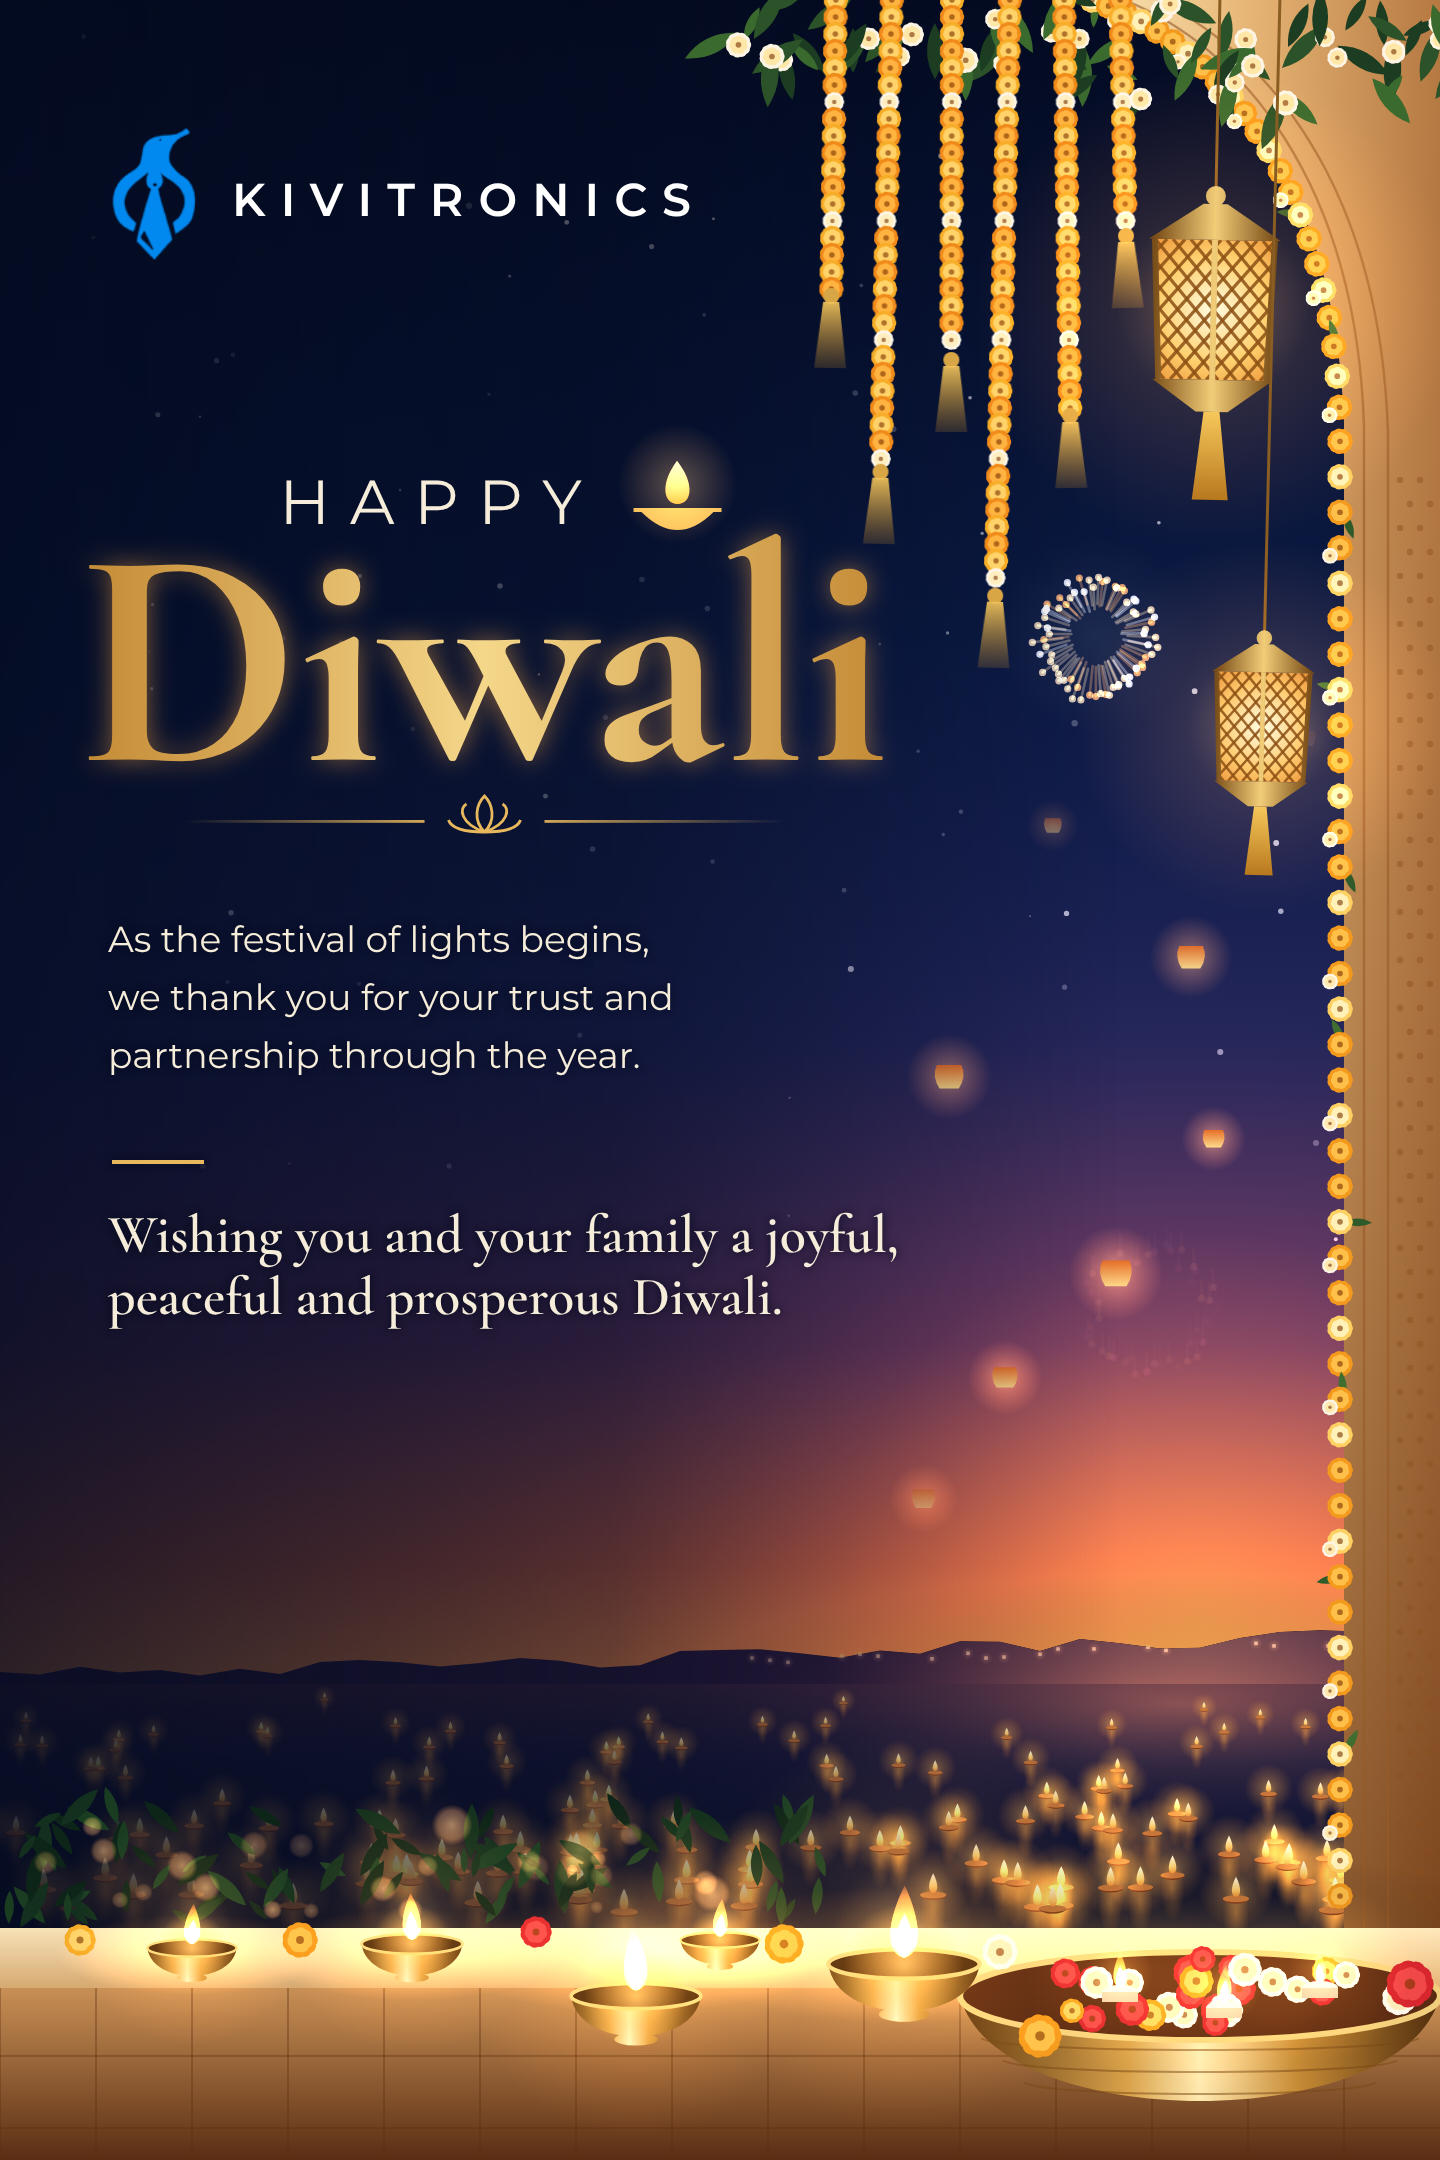
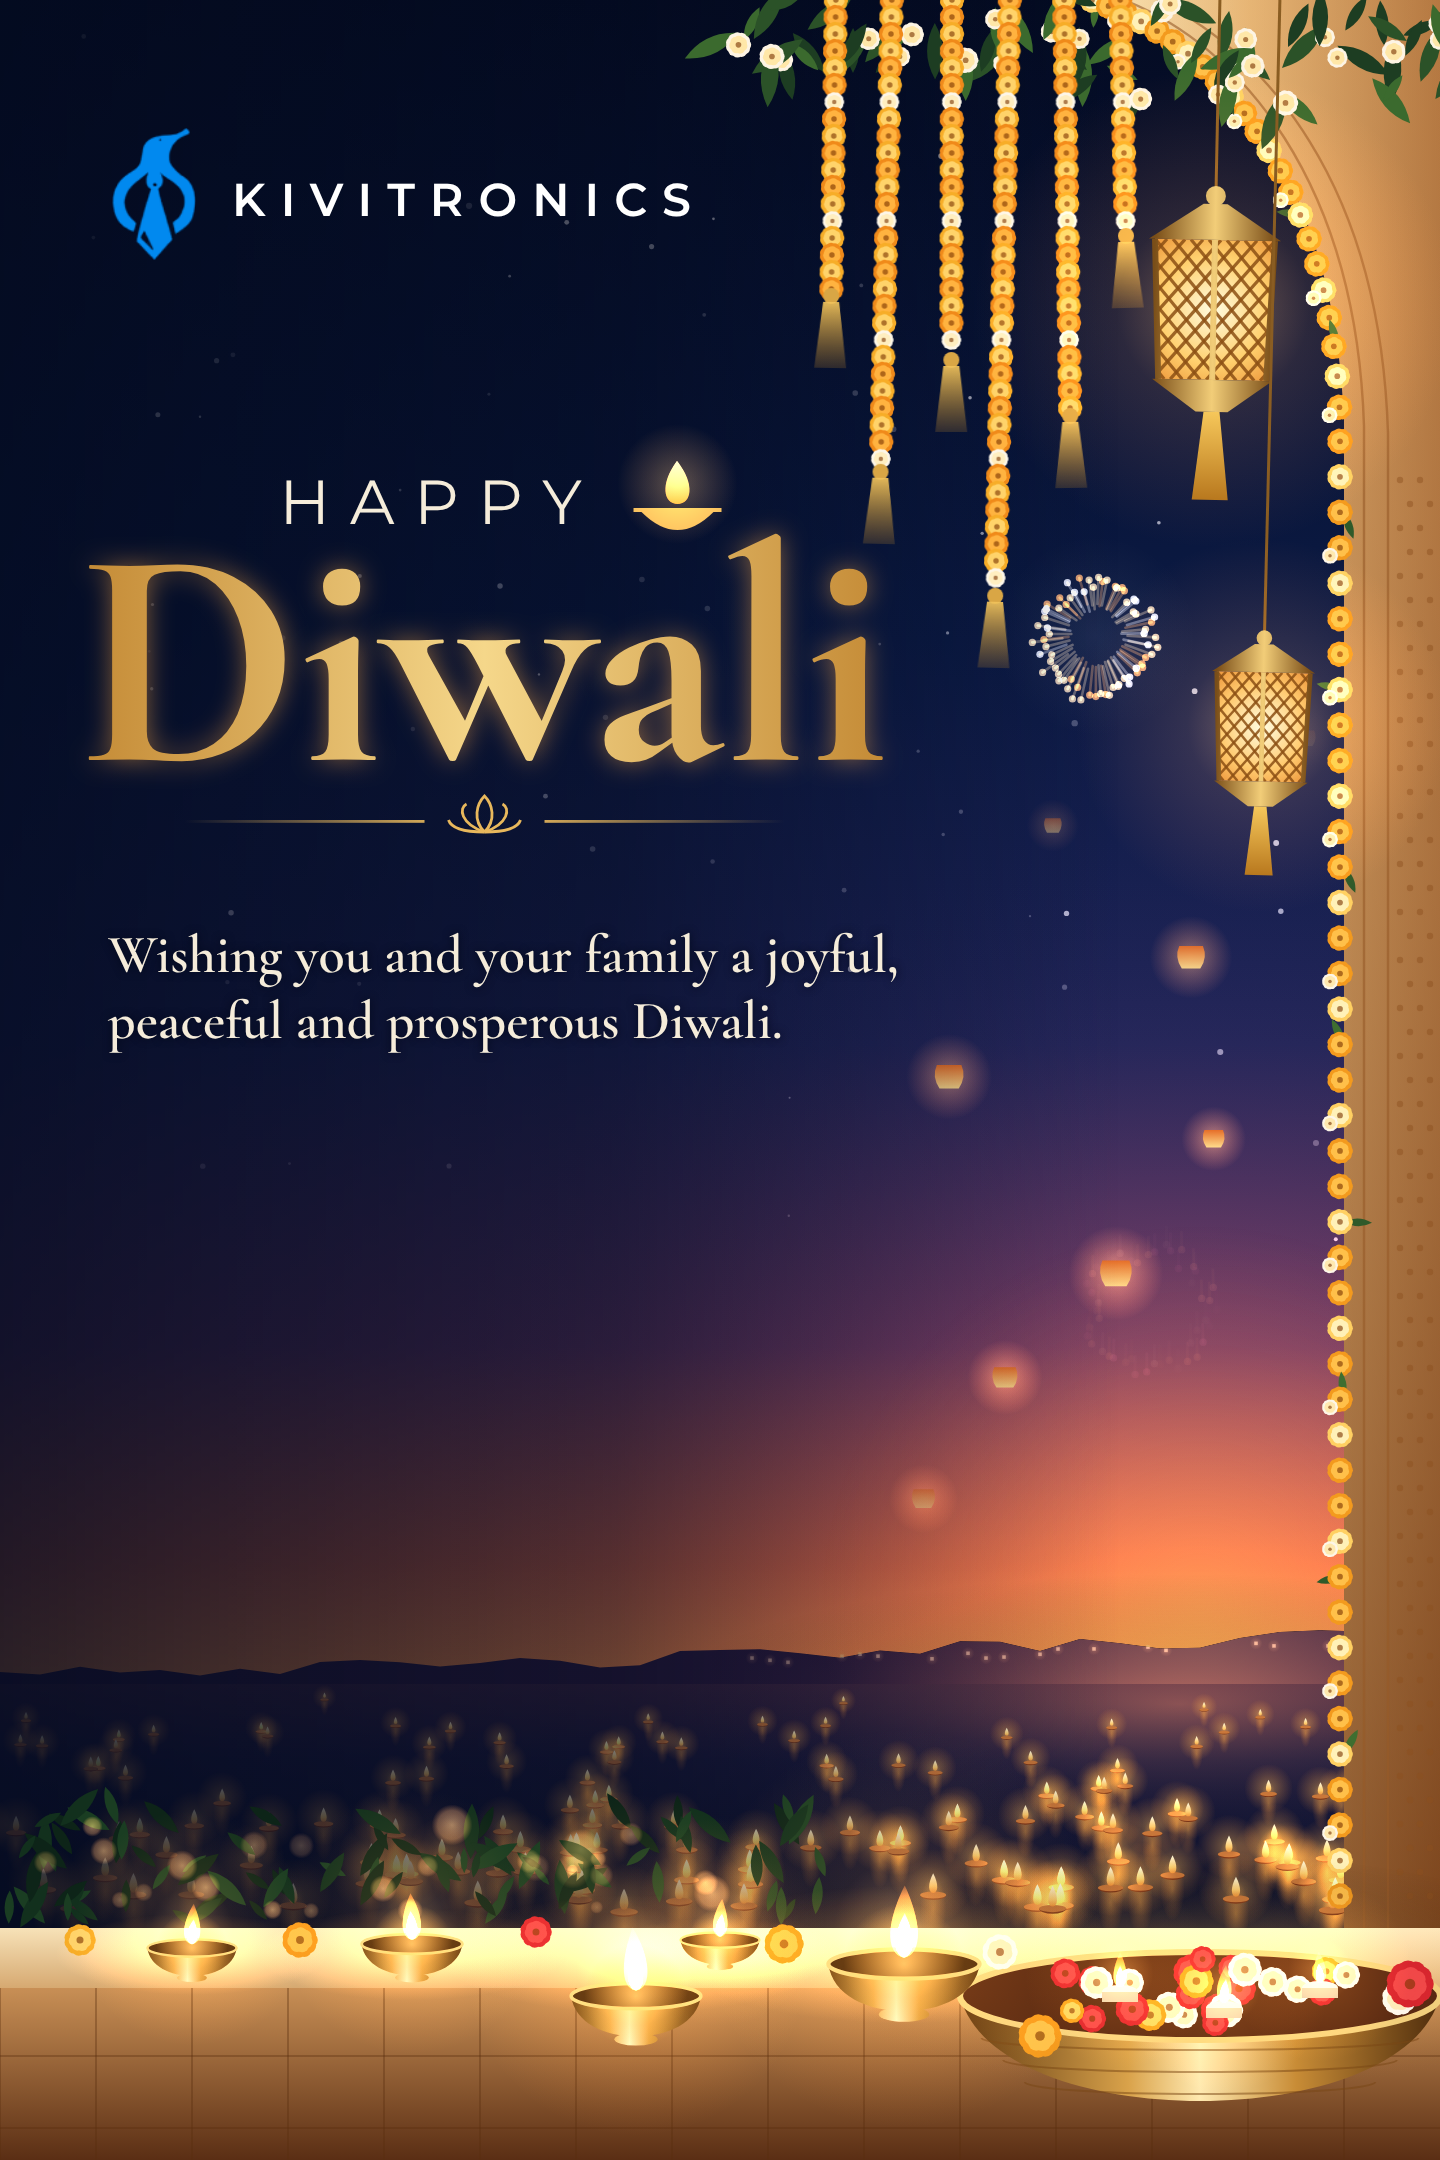
Final static poster: closing line only, no body paragraph
Claude-Session: https://claude.ai/code/session_01KK6EcFhoLQivjsFoKVDcmb

diff --git a/marketing/diwali-2026/kivitronics-diwali-poster.html b/marketing/diwali-2026/kivitronics-diwali-poster.html
@@ -513,7 +513,7 @@ canvas { height: min(1080px, 100vh - 32px); width: auto; max-width: calc(100vw -
   }
 
   const COPY = {
-    final: { body: ['As the festival of lights begins,', 'we thank you for your trust and', 'partnership through the year.'],
+    final: { body: [],
          close: ['Wishing you and your family a joyful,', 'peaceful and prosperous Diwali.'] },
     a: { body: ['As the festival of lights begins,', 'we thank you for your trust and', 'partnership through the year.'],
          close: ['Wishing you and your family', 'a peaceful and joyful Diwali.'] },
@@ -584,8 +584,9 @@ canvas { height: min(1080px, 100vh - 32px); width: auto; max-width: calc(100vw -
     ctx.save(); ctx.shadowColor = 'rgba(3,8,24,0.9)'; ctx.shadowBlur = 8;
     C.body.forEach((s, i) => text(s, 54, 476 + i * LH, BF, CREAM));
     const ry = 476 + (C.body.length - 1) * LH + 46;
-    rule(56, ry, 46);
-    C.close.forEach((s, i) => text(s, 54, ry + 46 + i * 31, CF, CREAM));
+    if (C.body.length) rule(56, ry, 46);
+    const cy = C.body.length ? ry + 46 : 486;
+    C.close.forEach((s, i) => text(s, 54, cy + i * 33, CF, CREAM));
     ctx.restore();
   }
 
